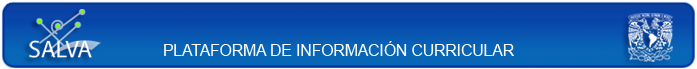
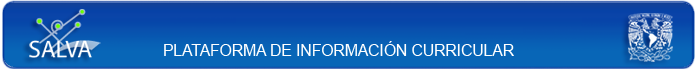
Cambios en las hojas de estilo

Changed region(s): [[0.0, 0.8986, 0.9943, 1.0], [0.0, 0.0, 0.9943, 0.087], [0.9943, 0.1159, 1.0, 0.8986]]

diff --git a/trunk/public/stylesheets/form.css b/trunk/public/stylesheets/form.css
@@ -1,14 +1,90 @@
-#topbar {
-	background: #fff url(/images/forms_head_bg.png) top left repeat-x;
-	width: 600px;
-	height: 30;
-	text-align: right;
-        padding-right: 10px;
-        padding-top: 2px;
-	color: #ffffff;
-	font:  13px Arial,  sans-serif;	
+/* body */
+body {
+  background-color: #0866B7;
+  margin-top: 20px;
+  margin-left: 20%;
+  margin-right: 20%;
+  border: 0px;
+  padding: 0px;
 }
 
+.rbroundbox {
+  background-color: #ffffff; 
+}
+.rbtop div { 
+  background: url("/images/top_left.png") no-repeat top left; 
+}
+
+.rbtop { 
+  background: url("/images/top_right.png") no-repeat top right; 
+}
+
+.rbbot div { 
+  background: url("/images/bottom_left.png") no-repeat bottom left; 
+}
+
+.rbbot { 
+  background: url("/images/bottom_right.png") no-repeat bottom right; 
+}
+
+.rbtop div, .rbtop, .rbbot div, .rbbot {
+  width: 100%;
+  height: 7px;
+}
+
+.rbcontent {
+  margin: 0 7px; 
+}
+
+.rbroundbox { 
+  width: 100%; margin: 1em auto; 
+}
+
+.topbar {
+	background: #4381CE;
+	width: 100%;
+	height: 50;
+	text-align: left;
+	color: #CCCCff;
+	font: 20px Arial,  sans-serif;	
+	font-weight: bold; 
+	padding-top: 5px;
+}
+
+#navbar {
+	background: #4381CE;
+	width: 99%;
+	height: 16;
+	text-align: left;
+	padding: 1px;
+	color: #FFFFFF;
+	font: 14px Arial,  sans-serif;	
+	font-weight: bold; 
+	padding: 2px;
+}
+
+#navbar a {
+	color: #FFFFFF;
+	font: 14px Arial,  sans-serif;	
+}
+#navbar a:visited {
+	color: #FFFFFF;
+}
+
+#navbar a:hover {
+	color: yellow;
+}
+
+#topbar {
+	background: #4381CE;
+	width: 100%;
+	height: 50;
+	text-align: left;
+	color: #CCCCff;
+	font: 20px Arial,  sans-serif;	
+	font-weight: bold; 
+	padding-top: 5px;
+}
 #topbar .user {
 	color: #CCFF99;
 	padding-right: 20px;
@@ -54,21 +130,15 @@
 }
 
 #title {
-	background: #fff url(/images/formshead.png) no-repeat;
-	width: 500px;
-	height: 30px;
-	margin-top: 2px;
-	margin-left: 30px;
-        padding-left: 20px;
-        padding-right: 20px;
-	padding-top: 26px;
-	padding-bottom: 4px;
+	width: 100%;
+	height: 50px;
+	background: #FFFFF;
 	color: #336699;
+	margin-top: 10px;
 	vertical-align: bottom;
 	font: 15px Arial, Helvetica, sans-serif;
 	font-weight: bold;
 	text-align: left;
-	border-bottom: 2px solid silver;
 }
 
 #headerror {
@@ -91,10 +161,10 @@
 
 .box {
 	background: #fff url(/images/login_body_bg.jpg) top;
-	width: 550px;
-	min-height: 200px;
-	margin-top: 15px;
-	margin-left: 30px;
+	width: 90%;
+        margin-left: 15px;
+        margin-right: 15px;
+        margin-top: 5px;
         padding-left: 10px;
         padding-right: 10px;
 	border: 1px solid #336699;

diff --git a/trunk/public/stylesheets/administration.css b/trunk/public/stylesheets/administration.css
@@ -2,19 +2,10 @@
  * =GENERAL/MASTER CONTAINERS
  */
 
- body {
-  margin: 0;
-  background: #fff url(../images/admin/hdr-tile.gif) repeat-x;
-  font: 1em/1.6em Helvetica, Arial, sans-serif;
-  text-align: center;
-  color: #000;
-  }
-
-
  #container {
   text-align: left;
   font-size: 80%;
-  margin: 0 auto;
+  //margin: 0 auto;
  }
 
  #header {

diff --git a/trunk/app/helpers/navigator_helper.rb b/trunk/app/helpers/navigator_helper.rb
@@ -11,7 +11,7 @@ module NavigatorHelper
       list << link_to(get_label(item), {:controller => 'navigator', :depth => counter})
       counter += 1
     }
-    list.join('|')    
+    list.join(' | ')    
   end
 
   def navtab_list
